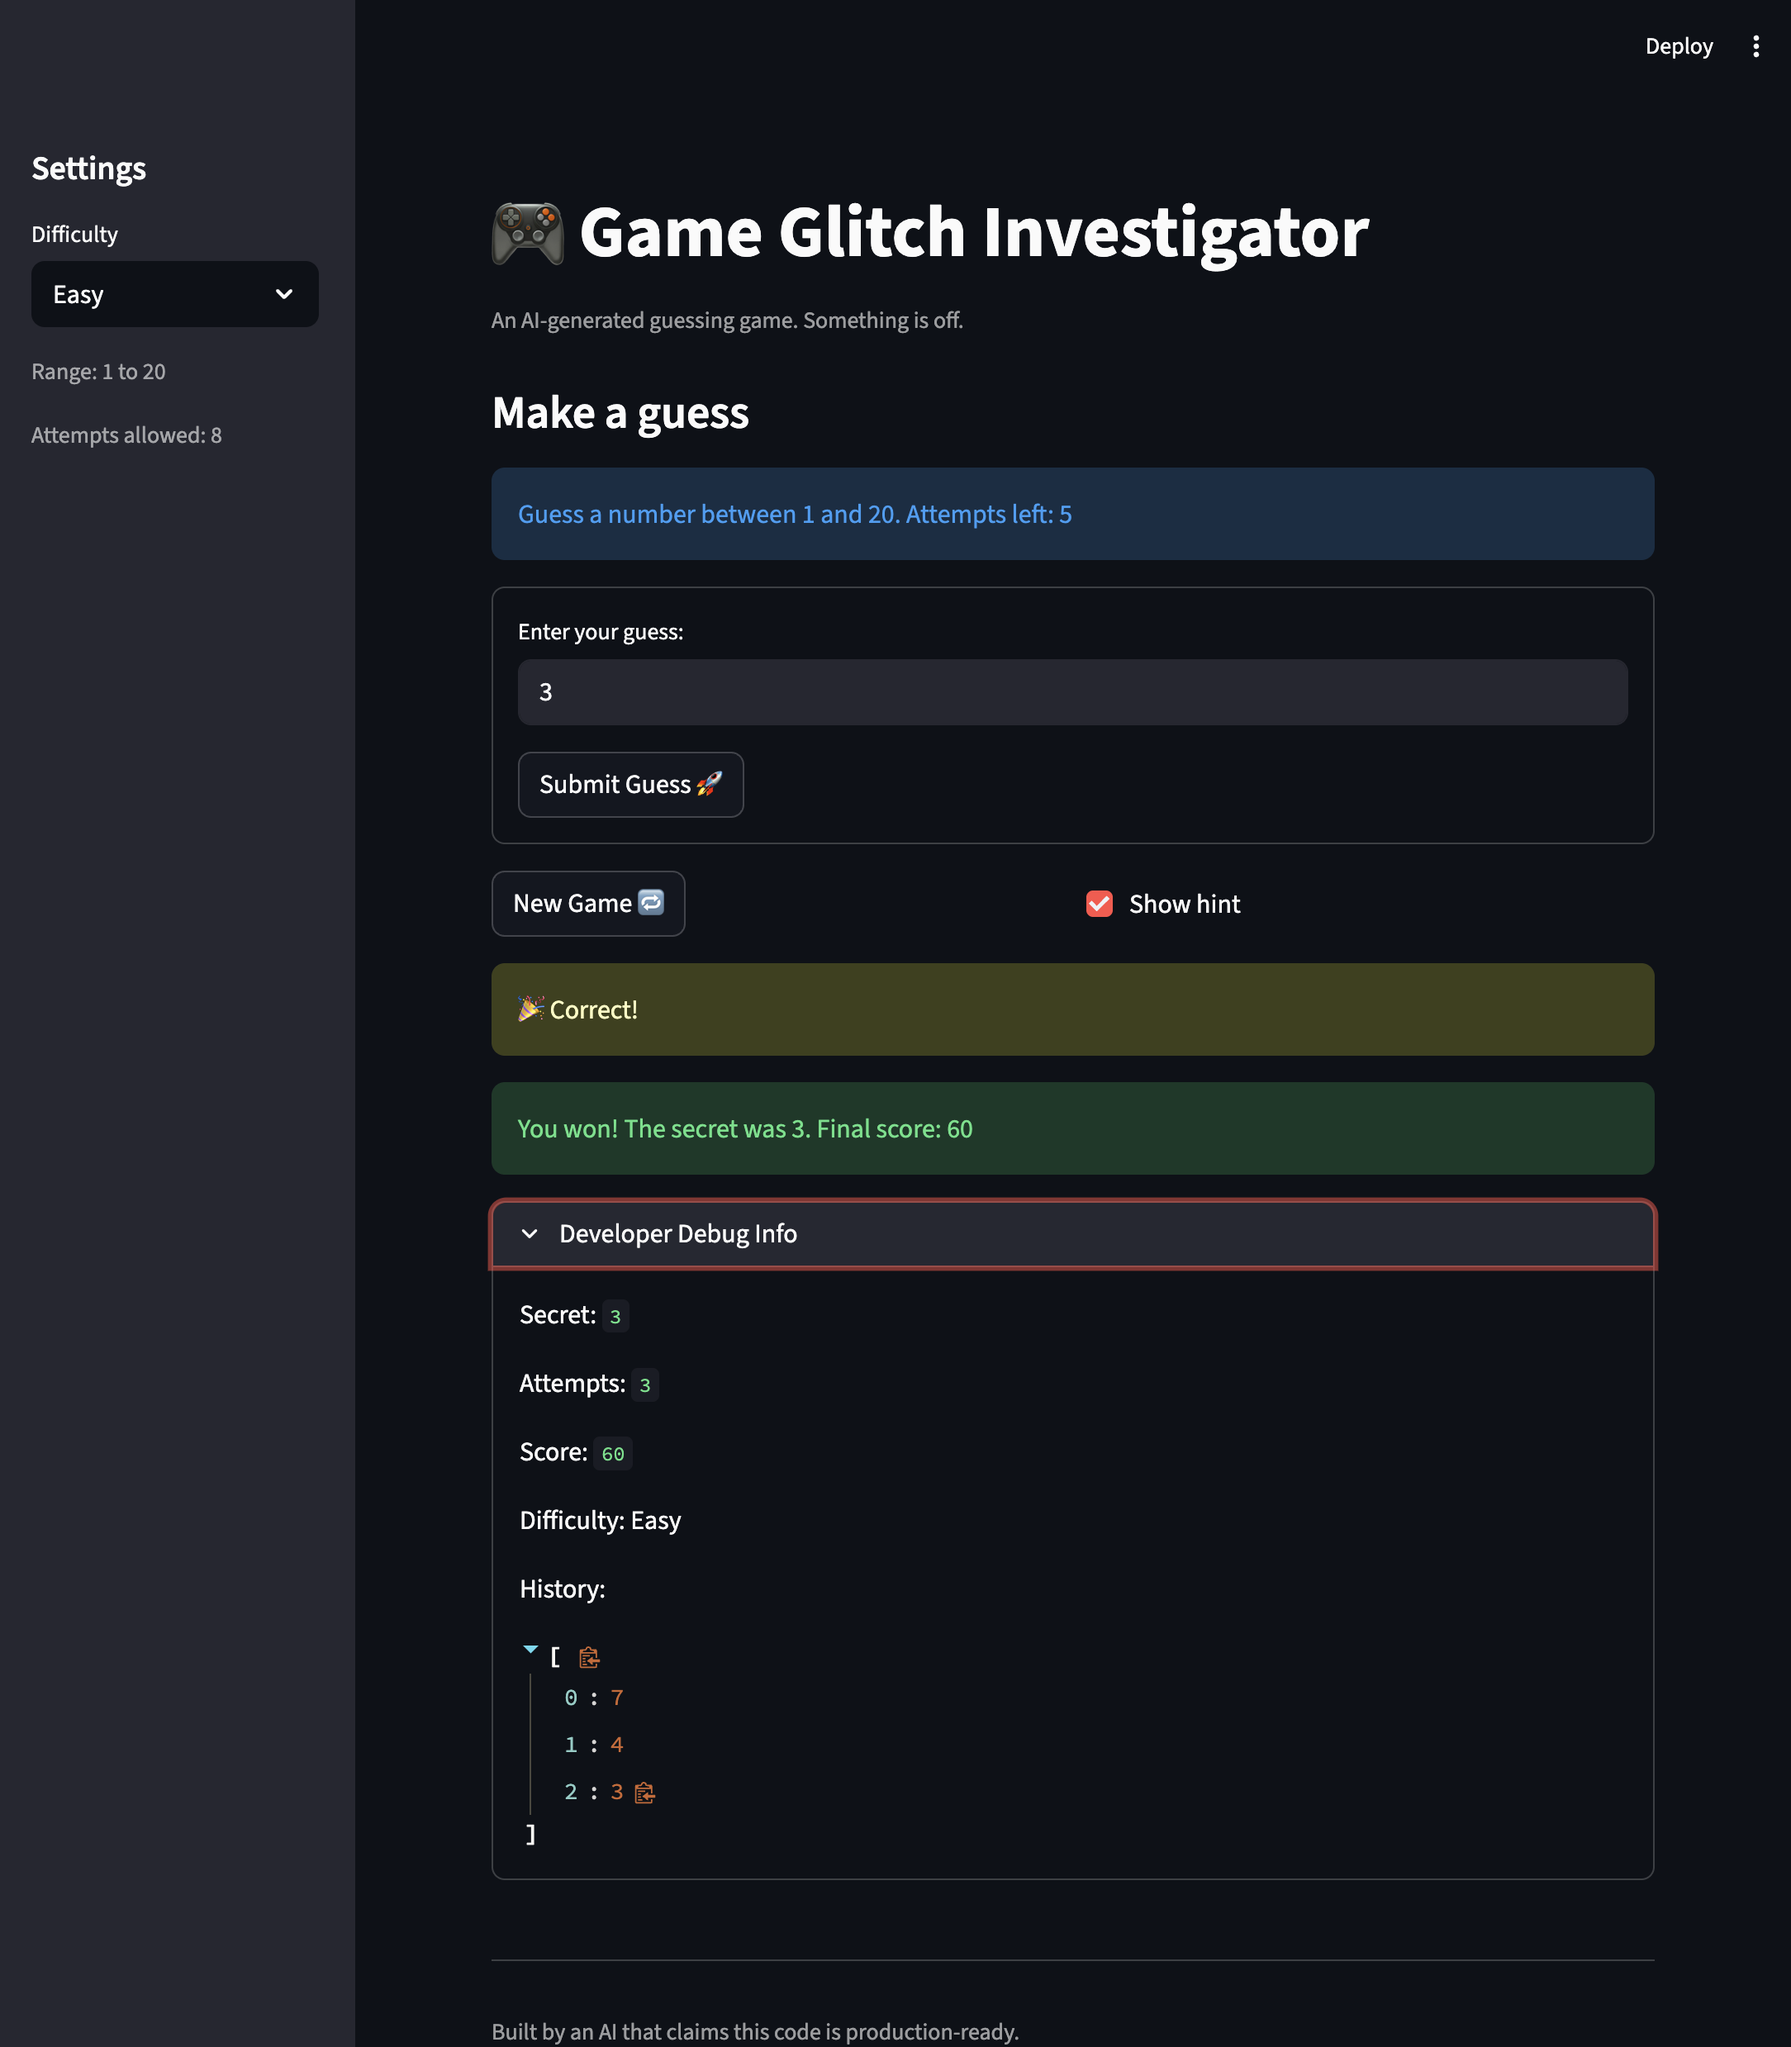
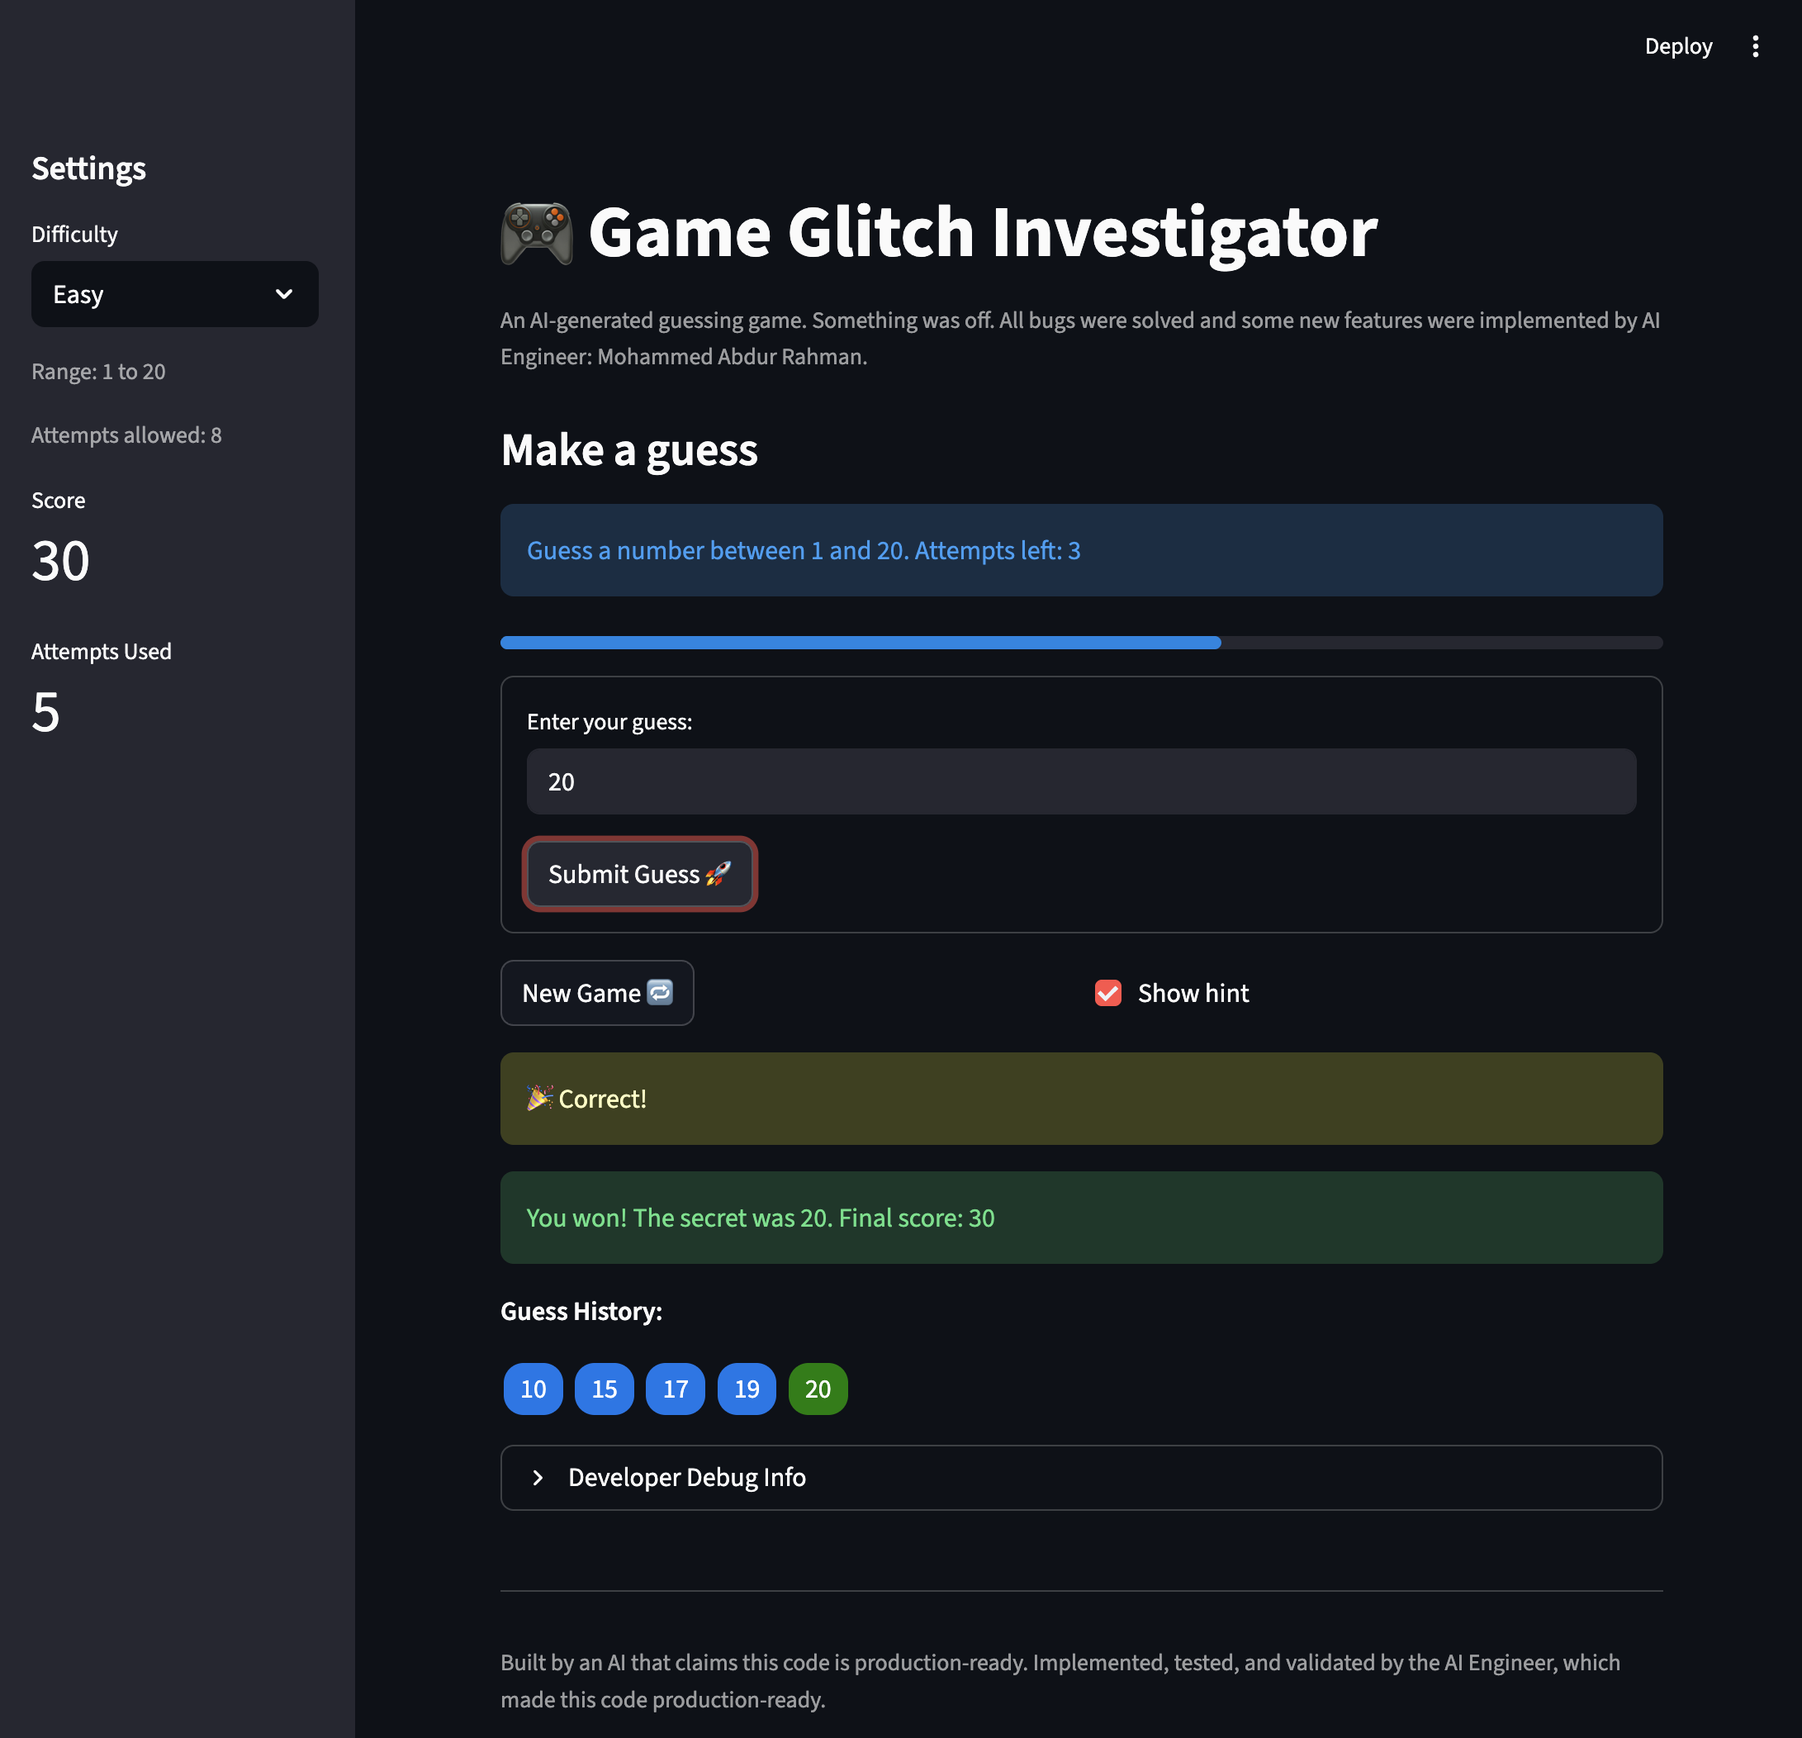
added additional (optional) user facing texts and udpated the demo screenshots

diff --git a/W03/game-glitch-investigator/app.py b/W03/game-glitch-investigator/app.py
@@ -5,7 +5,7 @@ from logic_utils import get_range_for_difficulty, parse_guess, check_guess, upda
 st.set_page_config(page_title="Glitchy Guesser", page_icon="🎮")
 
 st.title("🎮 Game Glitch Investigator")
-st.caption("An AI-generated guessing game. Something is off.")
+st.caption("An AI-generated guessing game. Something was off. All bugs were solved and some new features were implemented by AI Engineer: Mohammed Abdur Rahman.")
 
 st.sidebar.header("Settings")
 
@@ -188,4 +188,4 @@ with st.expander("Developer Debug Info"):
     st.write("History:", st.session_state.history)
 
 st.divider()
-st.caption("Built by an AI that claims this code is production-ready.")
+st.caption("Built by an AI that claims this code is production-ready. Implemented, tested, and validated by the AI Engineer, which made this code production-ready.")
